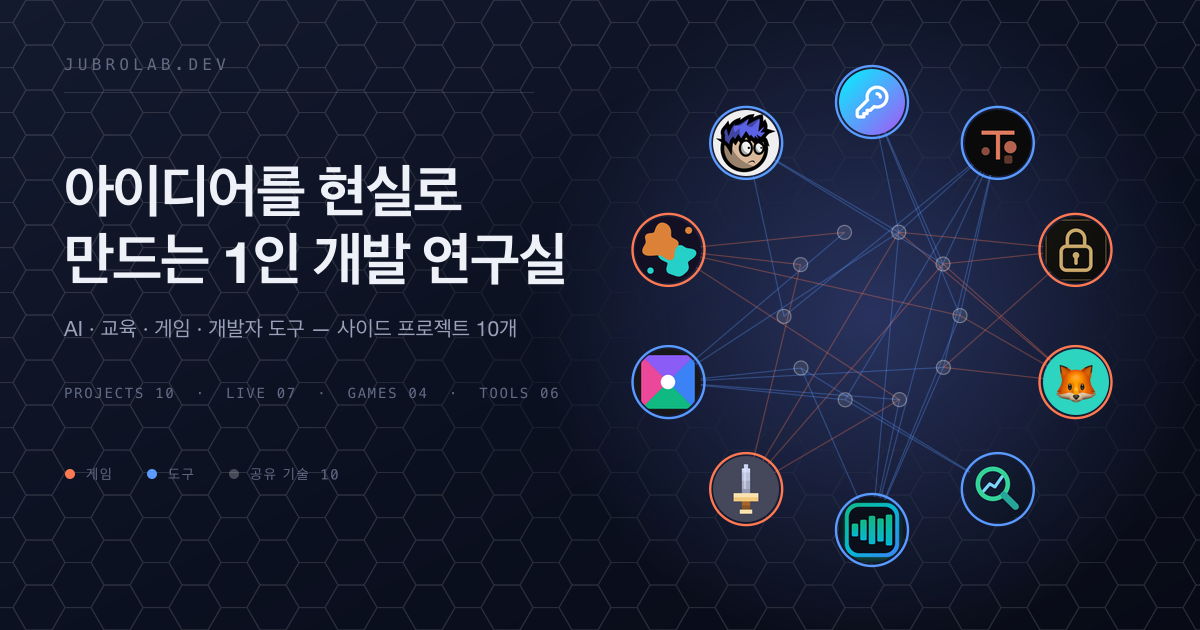
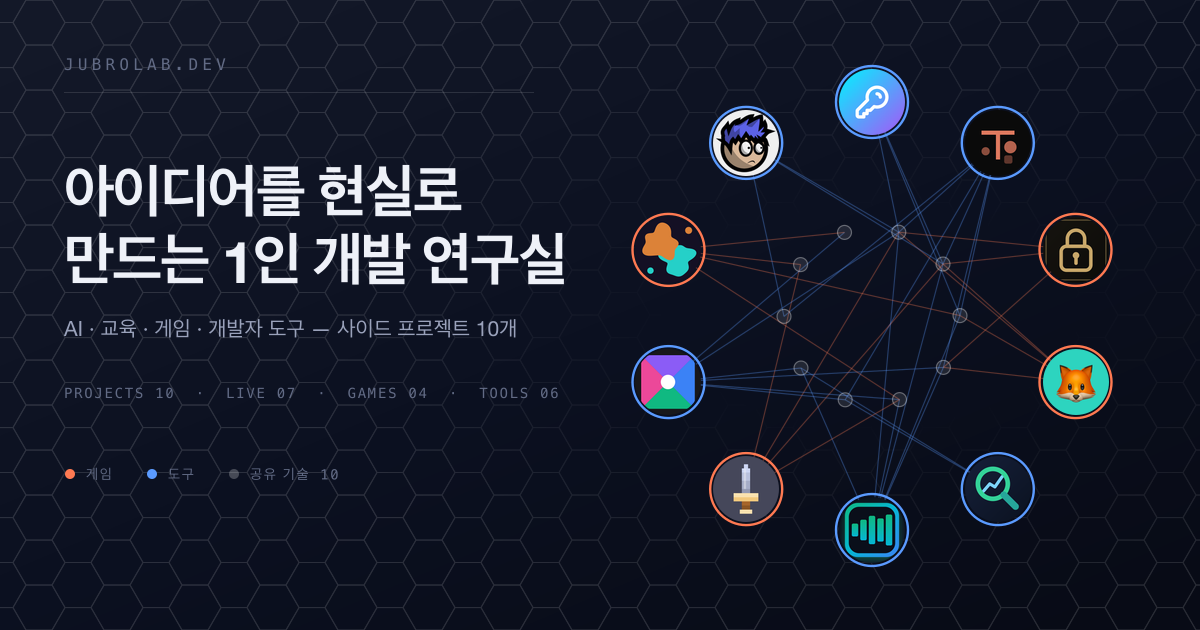
바탕에서 컬러 빛무리 제거
관계도 뒤에 깔았던 보라·청록·남색 빛무리 세 겹을 걷어내고 네이비 단색 한 겹만 남겼다.
빛무리가 노드의 발광과 세기가 겹쳐 서로를 깎고 있었다. 이제 화면에서 빛나는 것은
아이콘과 게임(주황)·도구(파랑) 테뿐이라 색이 어디서 오는지가 분명해진다.

사이트(globals.css .space)와 OG 카드가 같은 그라디언트를 쓴다.

Changed region(s): [[0.555, 0.181, 0.925, 0.8444]]

diff --git a/app/globals.css b/app/globals.css
@@ -48,16 +48,13 @@ body {
   outline-offset: 3px;
 }
 
-/* 바탕 — 가운데가 살짝 밝고 별가루가 낀 우주. 관계도가 그 위에 뜬다. */
+/* 바탕 — 색기 없는 네이비 한 겹. 색은 노드(아이콘)와 게임·도구 테가 전부 담당하고
+   바탕은 물러선다. 컬러 빛무리를 넣어보니 노드의 발광과 세기가 겹쳐 서로를 깎았다. */
 .space {
   position: fixed;
   inset: 0;
   z-index: -2;
-  background:
-    radial-gradient(78% 58% at 52% 42%, rgba(86, 104, 190, 0.34), transparent 70%),
-    radial-gradient(60% 46% at 12% 88%, rgba(38, 60, 108, 0.44), transparent 68%),
-    radial-gradient(56% 44% at 90% 14%, rgba(112, 72, 150, 0.28), transparent 66%),
-    linear-gradient(165deg, #141a2e 0%, #0b1020 52%, #080b16 100%);
+  background: linear-gradient(168deg, #131828 0%, #0b1020 54%, #080b16 100%);
 }
 
 /* 별가루. 큰 그라디언트에서 생기는 띠도 같이 지운다. */
